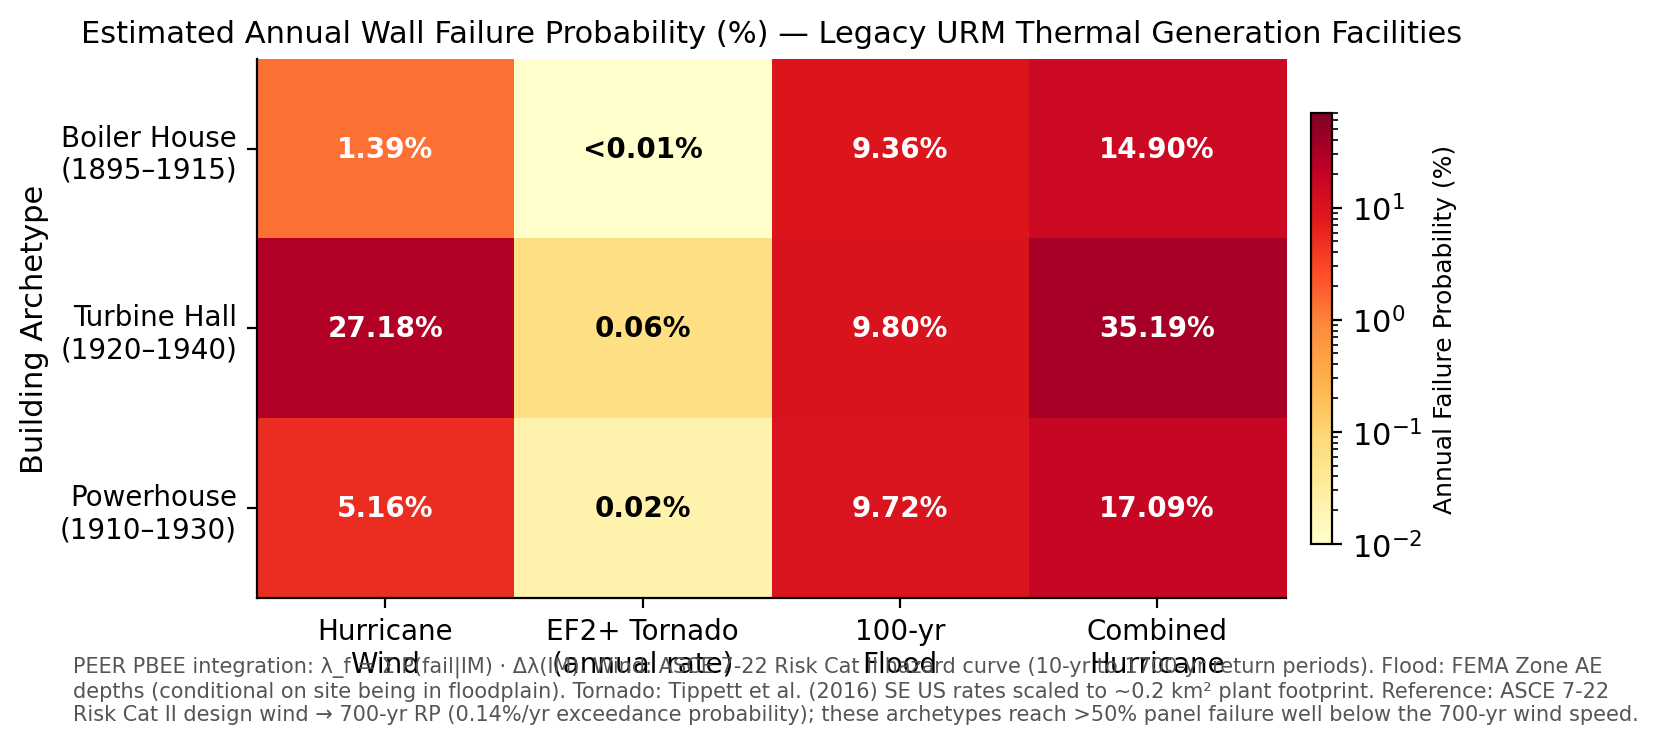
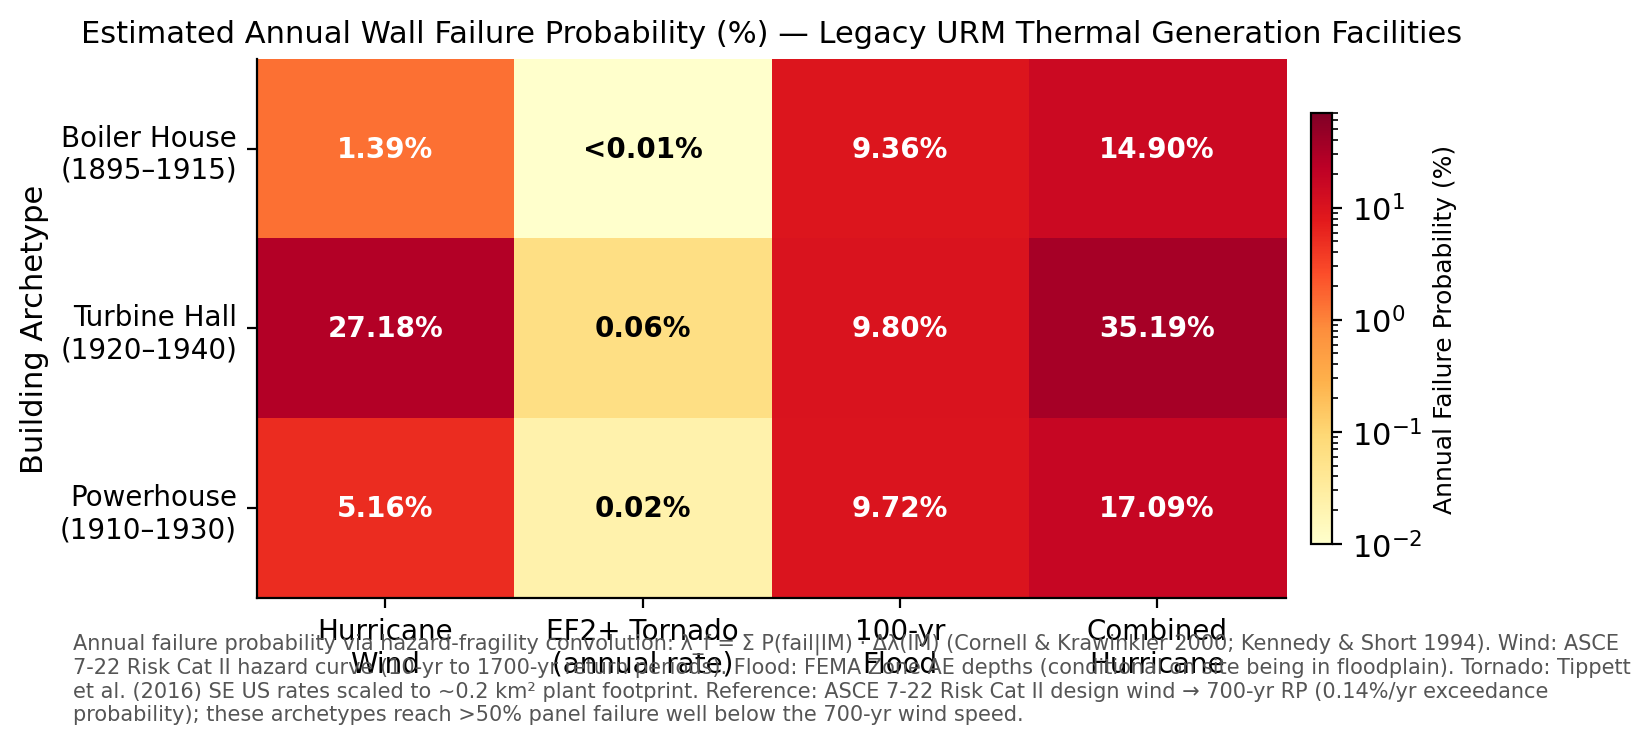
Rename PEER PBEE → hazard-fragility convolution; cite Kennedy & Short 1994
More neutral framing — the framework applies to any hazard, not just
seismic. Updated abstract, Section 7, figure caption, code docstring,
and references section. Added Kennedy & Short (1994) citation.

diff --git a/outputs/simulation_report.html b/outputs/simulation_report.html
@@ -154,8 +154,8 @@
   U.S. thermal power plant buildings. Three building archetypes spanning 1895–1940
   construction are subjected to hurricane wind, EF-scale tornado wind, coastal/riverine
   flood, and simultaneous hurricane landfall (wind + storm surge) loading. Annual
-  failure probabilities are integrated via the PEER Performance-Based Earthquake
-  Engineering (PBEE) framework. Results demonstrate that many legacy thermal generation
+  failure probabilities are integrated via annual hazard-fragility convolution
+  (Kennedy &amp; Short 1994; Cornell &amp; Krawinkler 2000). Results demonstrate that many legacy thermal generation
   facilities face annual hurricane failure probabilities of 1–27%, combined hurricane
   probabilities of 15–35%, and flood probabilities near 10% — far exceeding what
   standard practice implicitly assumes. These findings motivate the HPC4EI proposal for
@@ -498,8 +498,8 @@
 <h2>7 · Annual Failure Probabilities</h2>
 
 <p>
-  Annual failure probabilities are computed via the PEER Performance-Based
-  Earthquake Engineering (PBEE) numerical integration:
+  Annual failure probabilities are computed via hazard-fragility convolution
+  (Kennedy &amp; Short 1994; Cornell &amp; Krawinkler 2000):
 </p>
 <code class="eq">λ_f = Σᵢ P(fail | IMᵢ) · Δλᵢ    where  Δλᵢ = 1/RPᵢ − 1/RPᵢ₊₁</code>
 <p>
@@ -750,6 +750,7 @@
   <li>TMS 402-22. <em>Building Code Requirements and Specification for Masonry Structures.</em> The Masonry Society, 2022.</li>
   <li>Irish, J. L., Resio, D. T., &amp; Ratcliff, J. J. (2008). The influence of storm size on hurricane surge. <em>Journal of Physical Oceanography, 38</em>(9), 2003–2013.</li>
   <li>Tippett, M. K., Lepore, C., &amp; Cohen, J. E. (2016). More tornadoes in the most extreme US tornado outbreaks. <em>Science, 354</em>(6318), 1419–1423.</li>
+  <li>Kennedy, R. P., &amp; Short, S. A. (1994). Basis for seismic provisions of DOE-STD-1020. <em>Brookhaven National Laboratory / Lawrence Livermore National Laboratory</em>. [Foundational hazard-fragility convolution framework, widely adopted for wind and flood risk.]</li>
   <li>Cornell, C. A., &amp; Krawinkler, H. (2000). Progress and challenges in seismic performance assessment. <em>PEER Center News, 3</em>(2).</li>
 </ul>
 

diff --git a/src/run_analysis.py b/src/run_analysis.py
@@ -324,7 +324,8 @@ def plot_risk_matrix(results: dict):
     cbar.set_label("Annual Failure Probability (%)", fontsize=9)
 
     fig.text(0.01, -0.06,
-             "PEER PBEE integration: λ_f = Σ P(fail|IM) · Δλ(IM). "
+             "Annual failure probability via hazard-fragility convolution: λ_f = Σ P(fail|IM) · Δλ(IM) "
+             "(Cornell & Krawinkler 2000; Kennedy & Short 1994). "
              "Wind: ASCE 7-22 Risk Cat II hazard curve (10-yr to 1700-yr return periods). "
              "Flood: FEMA Zone AE depths (conditional on site being in floodplain). "
              "Tornado: Tippett et al. (2016) SE US rates scaled to ~0.2 km² plant footprint. "

diff --git a/src/fragility.py b/src/fragility.py
@@ -162,7 +162,8 @@ def run_all_fragility() -> dict:
 
 def annual_failure_probability(fragility_interp, hazard_table: dict) -> float:
     """
-    Annual failure probability via PEER PBEE numerical integration:
+    Annual failure probability via hazard-fragility convolution
+    (Kennedy & Short 1994; Cornell & Krawinkler 2000):
         λ_f = Σᵢ P(fail | IMᵢ) × Δλᵢ
     where Δλᵢ = λ(IMᵢ₋₁) - λ(IMᵢ) is the annual rate of occurrence in bin i.
     fragility_interp: callable P(failure | intensity)
